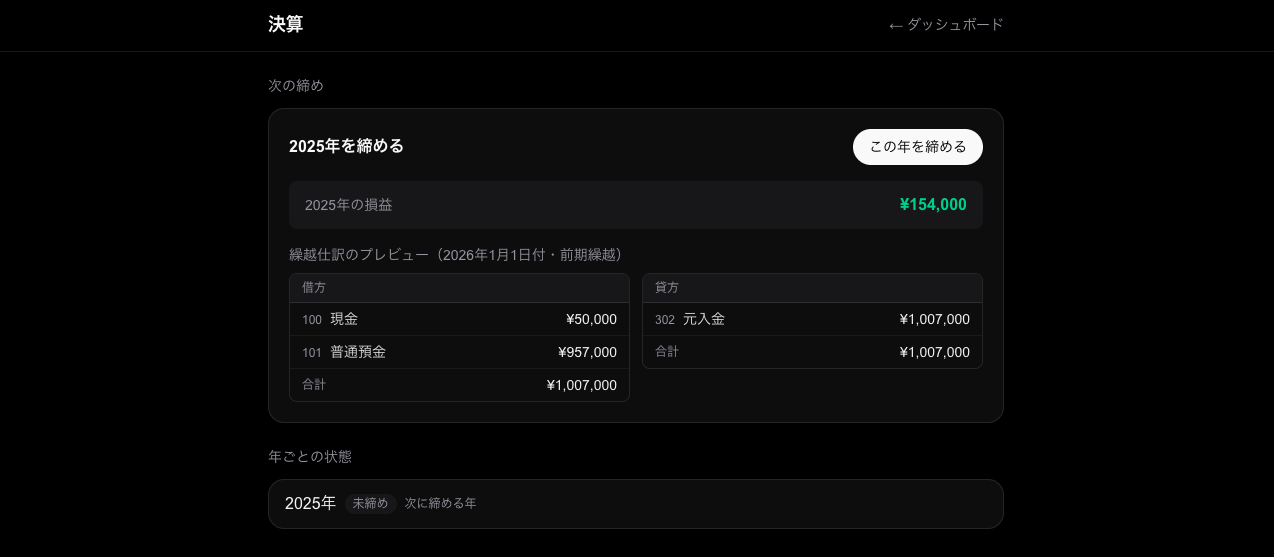
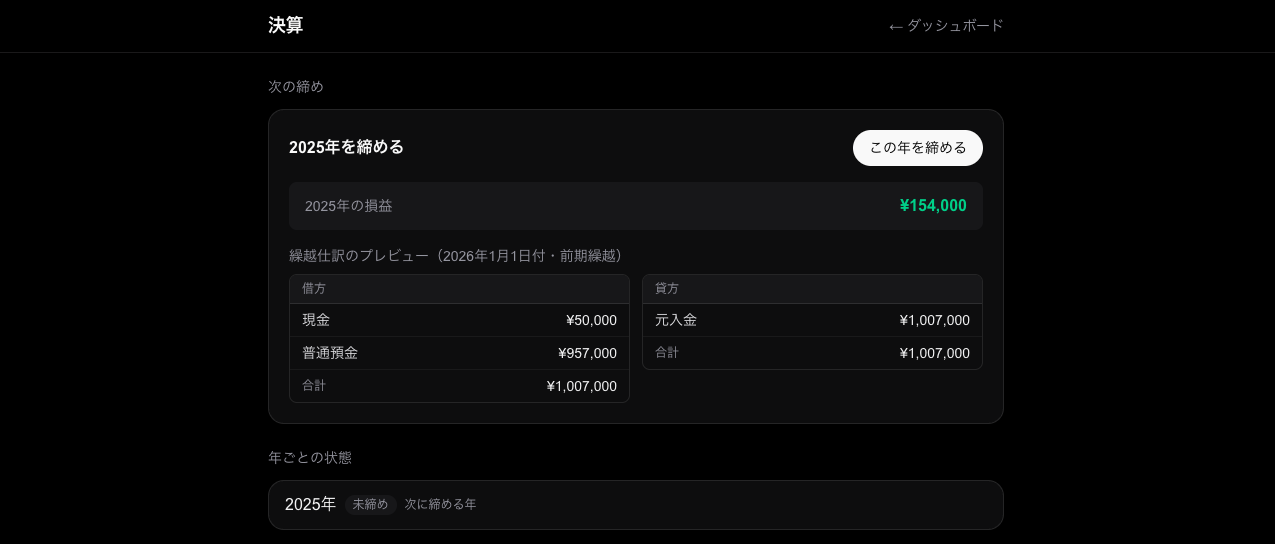
科目コードの表示を科目管理ページだけに絞る
コードの役割は表示順の制御で、画面に出す意味が薄い（コード入力で科目を
選ぶ操作も無い）ため、元帳・試算表・損益計算書・貸借対照表・決算
プレビューからバッジ表示を外す。並び順は従来どおりコード順のまま。
採番の管理台帳として使う科目管理ページには残す。スクリーンショットも
撮り直したものに差し替える。

diff --git a/app/closing/page.tsx b/app/closing/page.tsx
@@ -23,7 +23,6 @@ const formatDateTime = (d: Date) =>
 
 // 繰越仕訳プレビューの表示用 1 行。
 type PreviewRow = {
-  code: string;
   name: string;
   subName: string | null;
   amount: number;
@@ -77,7 +76,6 @@ export default async function ClosingPage() {
     lines.map((line) => {
       const account = accountById.get(line.accountId);
       return {
-        code: account?.code ?? "",
         name: account?.name ?? "(不明な科目)",
         subName:
           line.subAccountId !== null
@@ -289,11 +287,6 @@ function PreviewColumn({ label, rows }: { label: string; rows: PreviewRow[] }) {
               >
                 <td className="px-3 py-1.5">
                   <span className="inline-flex items-baseline gap-2 text-zinc-800 dark:text-zinc-200">
-                    {row.code && (
-                      <span className="text-xs tabular-nums text-zinc-400">
-                        {row.code}
-                      </span>
-                    )}
                     <span>
                       {row.name}
                       {row.subName && (

diff --git a/app/ledger/balance-sheet/page.tsx b/app/ledger/balance-sheet/page.tsx
@@ -235,7 +235,6 @@ function AccountRow({
 }: {
   row: {
     accountId: number;
-    code: string;
     name: string;
     accountType: keyof typeof ACCOUNT_TYPE_LABEL;
     balance: number;
@@ -249,11 +248,6 @@ function AccountRow({
           href={`/ledger/${row.accountId}?year=${yearParamValue}`}
           className="inline-flex items-baseline gap-2 text-zinc-800 transition-colors hover:text-black dark:text-zinc-200 dark:hover:text-zinc-50"
         >
-          {row.code && (
-            <span className="text-xs tabular-nums text-zinc-400">
-              {row.code}
-            </span>
-          )}
           <span>{row.name}</span>
           <span className="text-xs text-zinc-400">
             {ACCOUNT_TYPE_LABEL[row.accountType]}

diff --git a/app/ledger/profit-loss/page.tsx b/app/ledger/profit-loss/page.tsx
@@ -202,7 +202,7 @@ function AccountRow({
   row,
   yearParamValue,
 }: {
-  row: { accountId: number; code: string; name: string; balance: number };
+  row: { accountId: number; name: string; balance: number };
   yearParamValue: string;
 }) {
   return (
@@ -212,11 +212,6 @@ function AccountRow({
           href={`/ledger/${row.accountId}?year=${yearParamValue}`}
           className="inline-flex items-baseline gap-2 text-zinc-800 transition-colors hover:text-black dark:text-zinc-200 dark:hover:text-zinc-50"
         >
-          {row.code && (
-            <span className="text-xs tabular-nums text-zinc-400">
-              {row.code}
-            </span>
-          )}
           <span>{row.name}</span>
         </Link>
       </td>

diff --git a/app/ledger/trial-balance/page.tsx b/app/ledger/trial-balance/page.tsx
@@ -154,11 +154,6 @@ export default async function TrialBalancePage({
                         href={`/ledger/${row.accountId}?year=${yearParamValue}`}
                         className="inline-flex items-baseline gap-2 text-zinc-800 transition-colors hover:text-black dark:text-zinc-200 dark:hover:text-zinc-50"
                       >
-                        {row.code && (
-                          <span className="text-xs tabular-nums text-zinc-400">
-                            {row.code}
-                          </span>
-                        )}
                         <span>{row.name}</span>
                         <span className="text-xs text-zinc-400">
                           {ACCOUNT_TYPE_LABEL[row.accountType]}

diff --git a/app/ledger/[accountId]/page.tsx b/app/ledger/[accountId]/page.tsx
@@ -146,12 +146,9 @@ export default async function LedgerPage({
       </header>
 
       <main className="mx-auto w-full max-w-4xl flex-1 px-4 py-6">
-        {/* 科目の見出し（コード・分類・現在残高） */}
+        {/* 科目の見出し（分類・現在残高） */}
         <div className="mb-4 flex items-baseline justify-between gap-3">
           <p className="text-sm text-zinc-500 dark:text-zinc-400">
-            {account.code && (
-              <span className="tabular-nums">{account.code}・</span>
-            )}
             {ACCOUNT_TYPE_LABEL[account.accountType]}
           </p>
           <p className="text-sm text-zinc-500 dark:text-zinc-400">

diff --git a/app/ledger/page.tsx b/app/ledger/page.tsx
@@ -159,11 +159,6 @@ export default async function LedgerIndexPage({
                   className="flex items-center justify-between gap-3 px-4 py-3 transition-colors hover:bg-black/4 dark:hover:bg-white/6"
                 >
                   <span className="flex min-w-0 items-baseline gap-2">
-                    {account.code && (
-                      <span className="shrink-0 text-xs tabular-nums text-zinc-400">
-                        {account.code}
-                      </span>
-                    )}
                     <span className="truncate text-zinc-800 dark:text-zinc-200">
                       {account.name}
                     </span>
